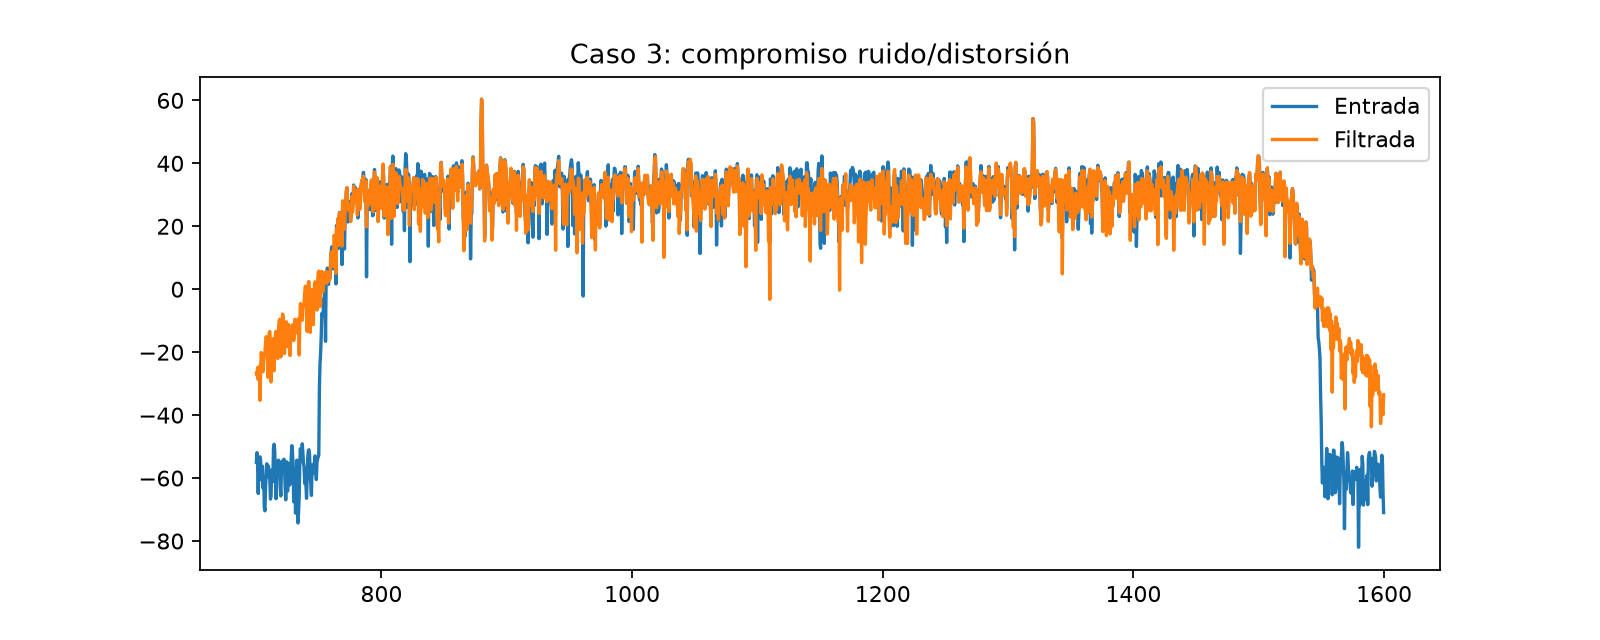
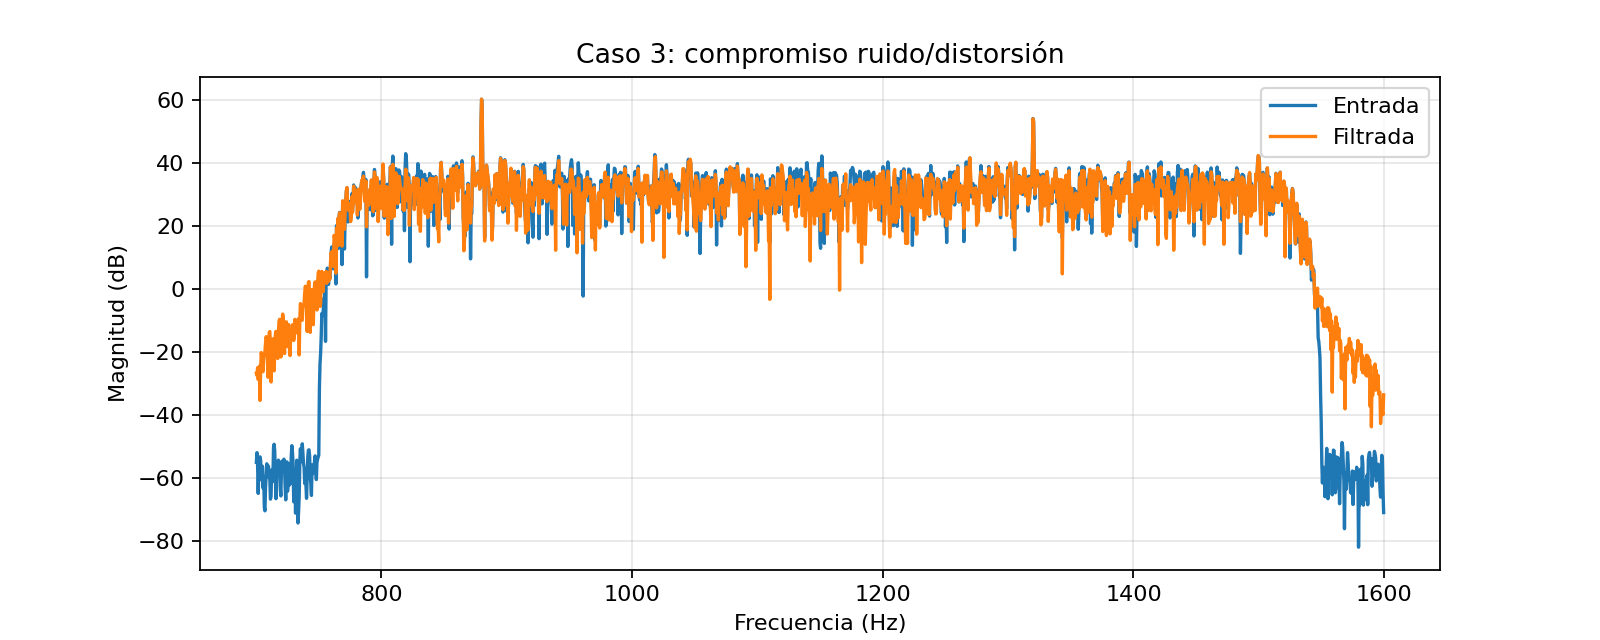
Arregla las figuras que el informe no encontraba
La seccion 2.3 pedia fig_23_polos_ceros.png y fig_23_respuestas.png pero los
archivos se llamaban fig23_polos_ceros.png y fig23_filtro_respuestas.png: falta
el guion bajo en los dos y sobra "filtro" en el segundo. Se renombran los
archivos en lugar de cambiar el .tex, para que todas las figuras del informe
sigan el mismo patron fig_2X_*.

La seccion 2.1 incluia sus tres figuras con la ruta adentro
(resultados/figuras/fig_21_bin.png). Como el preambulo ya trae \graphicspath,
basta el nombre.

Con esto el informe compila sin errores de imagen; antes salian cinco cajas
vacias.

La figura del compromiso del 2.4 no tenia etiquetas de ejes. El enunciado dice
que una grafica sin ejes y unidades no recibe el puntaje completo.

diff --git a/informe/secciones/2_1_fundamentos.tex b/informe/secciones/2_1_fundamentos.tex
@@ -3,7 +3,7 @@
 Para comparar las propiedades de la transformada discreta de Fourier (DFT), se utilizaron señales cosenoidales de amplitud unitaria y fase inicial cero, muestreadas a $f_s=8192$ Hz en bloques de $N=1024$ muestras. Todos los resultados se generan con \texttt{pruebas/test\_fft.py}.
 
 \subsection{Relación entre serie de Fourier, transformada de Fourier, DFT y FFT}
-Una señal periódica continua de período $T_0$ puede representarse mediante una serie de Fourier, esto es, la suma de componentes armónicas discretas:
+Una señal periódica continua de período $T_0$ puede representarse mediante una serie de Fourier, esto es, la suma de componentes armónicas discretas \cite{oppenheim2010}:
 \begin{equation}
  x(t)=\sum_{m=-\infty}^{\infty}c_m e^{jm\omega_0 t},\qquad \omega_0=\frac{2\pi}{T_0}.
 \end{equation}
@@ -15,7 +15,7 @@ Al contar con $N$ muestras de una señal digital, se emplea la DFT, definida por
 \begin{equation}
  X[k]=\sum_{n=0}^{N-1}x[n]e^{-j2\pi kn/N},\qquad k=0,\dots,N-1.
 \end{equation}
-La FFT no constituye una transformada matemática diferente: es una familia de algoritmos para calcular la DFT con menor costo. Frente al cálculo directo de orden $O(N^2)$, una FFT radix-2 para $N$ potencia de dos requiere $O(N\log_2 N)$ operaciones.
+La FFT no constituye una transformada matemática diferente: es una familia de algoritmos para calcular la DFT con menor costo. Frente al cálculo directo de orden $O(N^2)$, una FFT radix-2 para $N$ potencia de dos requiere $O(N\log_2 N)$ operaciones \cite{cooley1965}.
 
 \subsection{Separación frecuencial, latencia y memoria}
 La separación de bins y la duración de adquisición de un bloque se relacionan mediante
@@ -30,7 +30,7 @@ Se estudiaron las dos señales
  x_1[n]=\cos\!\left(2\pi\frac{512}{8192}n\right),\qquad
  x_2[n]=\cos\!\left(2\pi\frac{516}{8192}n\right).
 \end{equation}
-El primer tono corresponde al bin $k=64$, mientras el segundo se ubica a mitad de camino entre los bins 64 ($512$ Hz) y 65 ($520$ Hz). Antes de la FFT se comparó la ventana rectangular $w_R[n]=1$ con la Hann periódica:
+El primer tono corresponde al bin $k=64$, mientras el segundo se ubica a mitad de camino entre los bins 64 ($512$ Hz) y 65 ($520$ Hz). Antes de la FFT se comparó la ventana rectangular $w_R[n]=1$ con la Hann periódica \cite{harris1978}:
 \begin{equation}
  w_H[n]=\frac12\left(1-\cos\left(\frac{2\pi n}{N}\right)\right),\quad 0\le n<N.
 \end{equation}
@@ -39,11 +39,11 @@ Para mostrar la magnitud de las señales, se normalizaron los valores obtenidos 
 En las gráficas de fase, solamente se muestran las frecuencias cuya magnitud supera el 1\% del valor máximo. Esto se hizo porque la fase de componentes con magnitudes muy pequeñas no aporta información útil para el análisis.
 
 \begin{figure}[H]
- \centering\includegraphics[width=\linewidth]{resultados/figuras/fig_21_bin.png}
+ \centering\includegraphics[width=\linewidth]{fig_21_bin.png}
  \caption{Magnitud y fase del tono alineado con un bin, comparando ventana rectangular y Hann.}\label{fig:bin}
 \end{figure}
 \begin{figure}[H]
- \centering\includegraphics[width=\linewidth]{resultados/figuras/fig_21_entre_bins.png}
+ \centering\includegraphics[width=\linewidth]{fig_21_entre_bins.png}
  \caption{Magnitud y fase del tono ubicado entre dos bins.}\label{fig:inter}
 \end{figure}
 Al utilizar la ventana rectangular con el tono de 512 Hz, se observa que la energía se concentra en una sola frecuencia. Con la ventana Hann, la energía se distribuye principalmente entre esa frecuencia y las más cercanas.
@@ -61,7 +61,7 @@ Para $x[n]\in\mathbb{R}$, la DFT presenta simetría conjugada:
 \end{equation}
 Esto implica magnitudes iguales y fases opuestas (módulo $2\pi$) en frecuencias positivas y negativas. Para el tono de 516 Hz, el error máximo medido $\max_{1\le k<N/2}|X[k]-X^*[N-k]|$ fue $3.63\times10^{-14}$. Como comprobación adicional se anularon los bins 63, 64 y 65 y sus correspondientes bins negativos. La parte imaginaria máxima de la IFFT resultante fue $2.64\times10^{-16}$, consistente con un error de redondeo numérico.
 \begin{figure}[H]
- \centering\includegraphics[width=\linewidth]{resultados/figuras/fig_21_simetria.png}
+ \centering\includegraphics[width=\linewidth]{fig_21_simetria.png}
  \caption{Espectro de magnitud y fase antes y después de una modificación conjugadamente simétrica.}\label{fig:simetria}
 \end{figure}
 La simetría debe mantenerse al alterar el espectro antes de usar la IFFT para que la señal reconstruida siga siendo real. Para índices auto-conjugados, DC ($k=0$) y Nyquist ($k=N/2$ cuando $N$ es par), los coeficientes también deben ser reales.

diff --git a/src/graficas_filtrado_espectral.py b/src/graficas_filtrado_espectral.py
@@ -241,6 +241,19 @@ def generar_figura_compromiso():
         "Caso 3: compromiso ruido/distorsión"
     )
 
+    ax.set_xlabel(
+        "Frecuencia (Hz)"
+    )
+
+    ax.set_ylabel(
+        "Magnitud (dB)"
+    )
+
+    ax.grid(
+        True,
+        alpha=0.3
+    )
+
     ax.legend()
 
     ruta = (
